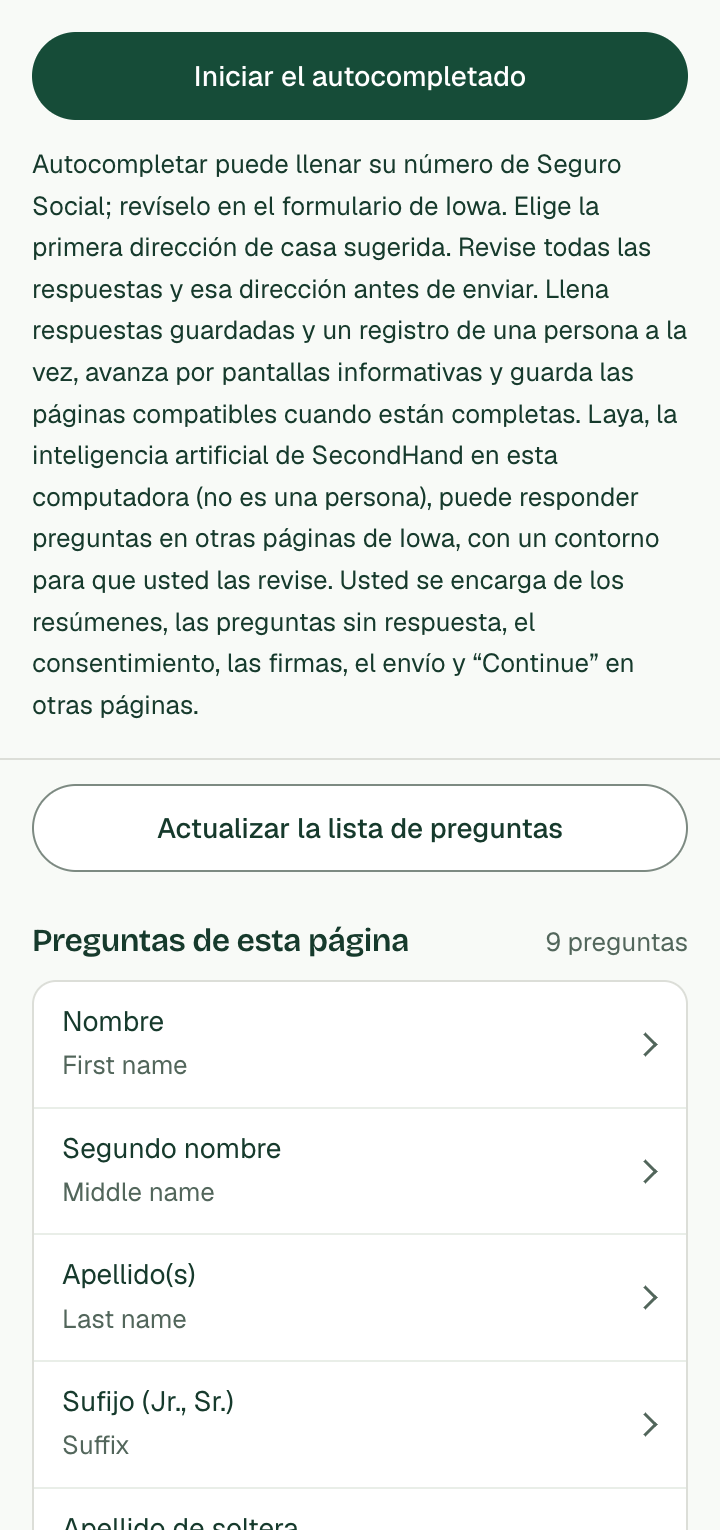
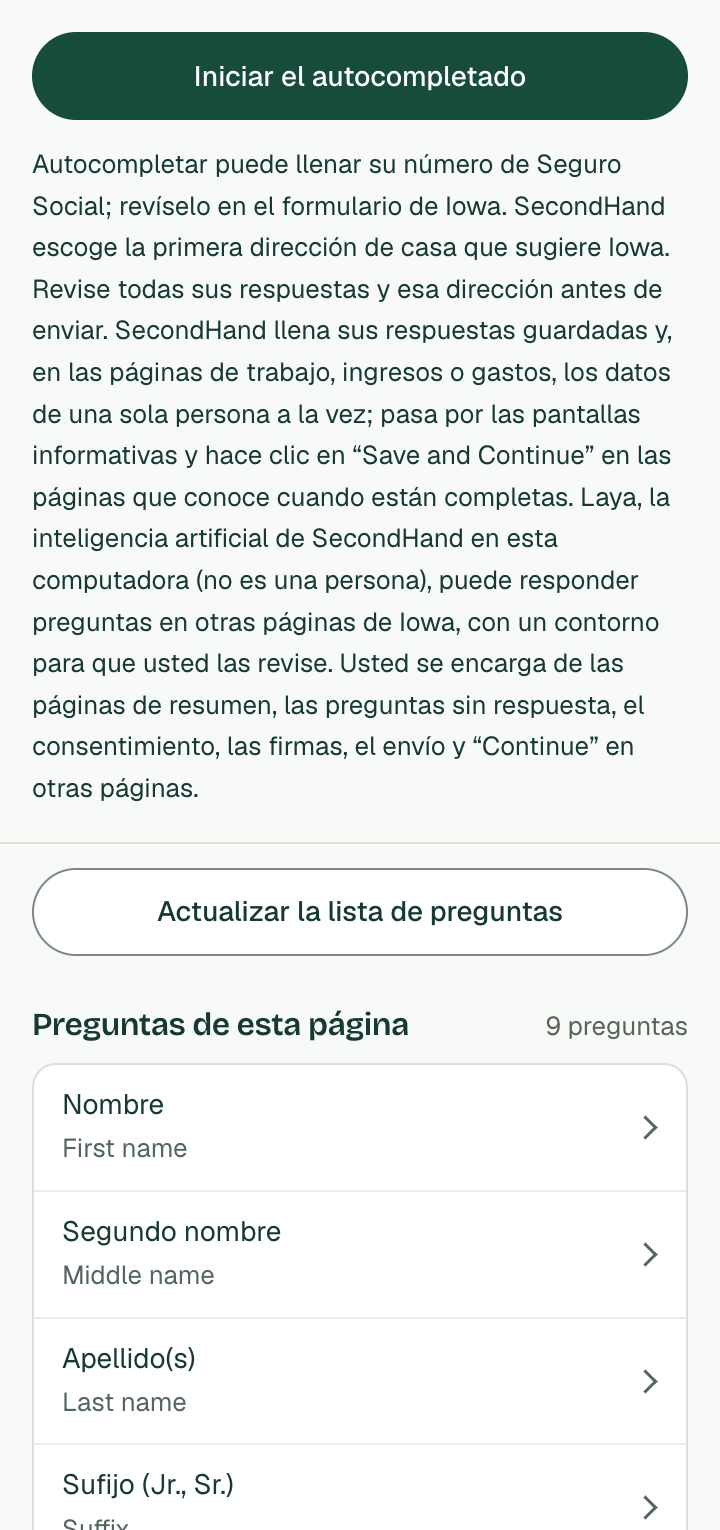
fix: say in the Spanish side panel who does each step of Autofill on Iowa
The Spanish line about Autofill on Iowa left out who does each step, so
"Elige la primera dirección" and "Llena..., avanza..., guarda..." read to a Spanish
reader as tú orders to her, beside usted ones, and "un registro de una persona",
"páginas compatibles" and "resúmenes" said little. It now names SecondHand in each
sentence ("SecondHand escoge la primera dirección de casa que sugiere Iowa"), as
the card does, and says the pages in plain words.

diff --git a/extension/strings.js b/extension/strings.js
@@ -712,7 +712,7 @@
     'panel.framesEnable': 'También activar el formulario integrado',
     'panel.framesEnableHosts': 'También activar el formulario integrado ({hosts})',
     'panel.siteEnable': 'Activar SecondHand para este sitio',
-    "panel.iowaPolicy": "Autocompletar puede llenar su número de Seguro Social; revíselo en el formulario de Iowa. Elige la primera dirección de casa sugerida. Revise todas las respuestas y esa dirección antes de enviar. Llena respuestas guardadas y un registro de una persona a la vez, avanza por pantallas informativas y guarda las páginas compatibles cuando están completas. Laya, la inteligencia artificial de SecondHand en esta computadora (no es una persona), puede responder preguntas en otras páginas de Iowa, con un contorno para que usted las revise. Usted se encarga de los resúmenes, las preguntas sin respuesta, el consentimiento, las firmas, el envío y “Continue” en otras páginas.",
+    "panel.iowaPolicy": "Autocompletar puede llenar su número de Seguro Social; revíselo en el formulario de Iowa. SecondHand escoge la primera dirección de casa que sugiere Iowa. Revise todas sus respuestas y esa dirección antes de enviar. SecondHand llena sus respuestas guardadas y, en las páginas de trabajo, ingresos o gastos, los datos de una sola persona a la vez; pasa por las pantallas informativas y hace clic en “Save and Continue” en las páginas que conoce cuando están completas. Laya, la inteligencia artificial de SecondHand en esta computadora (no es una persona), puede responder preguntas en otras páginas de Iowa, con un contorno para que usted las revise. Usted se encarga de las páginas de resumen, las preguntas sin respuesta, el consentimiento, las firmas, el envío y “Continue” en otras páginas.",
     'panel.autofill': 'Autocompletar esta página',
     'panel.autofillIowa': 'Iniciar el autocompletado',
     'panel.stopAutofill': 'Detener el autocompletado',
